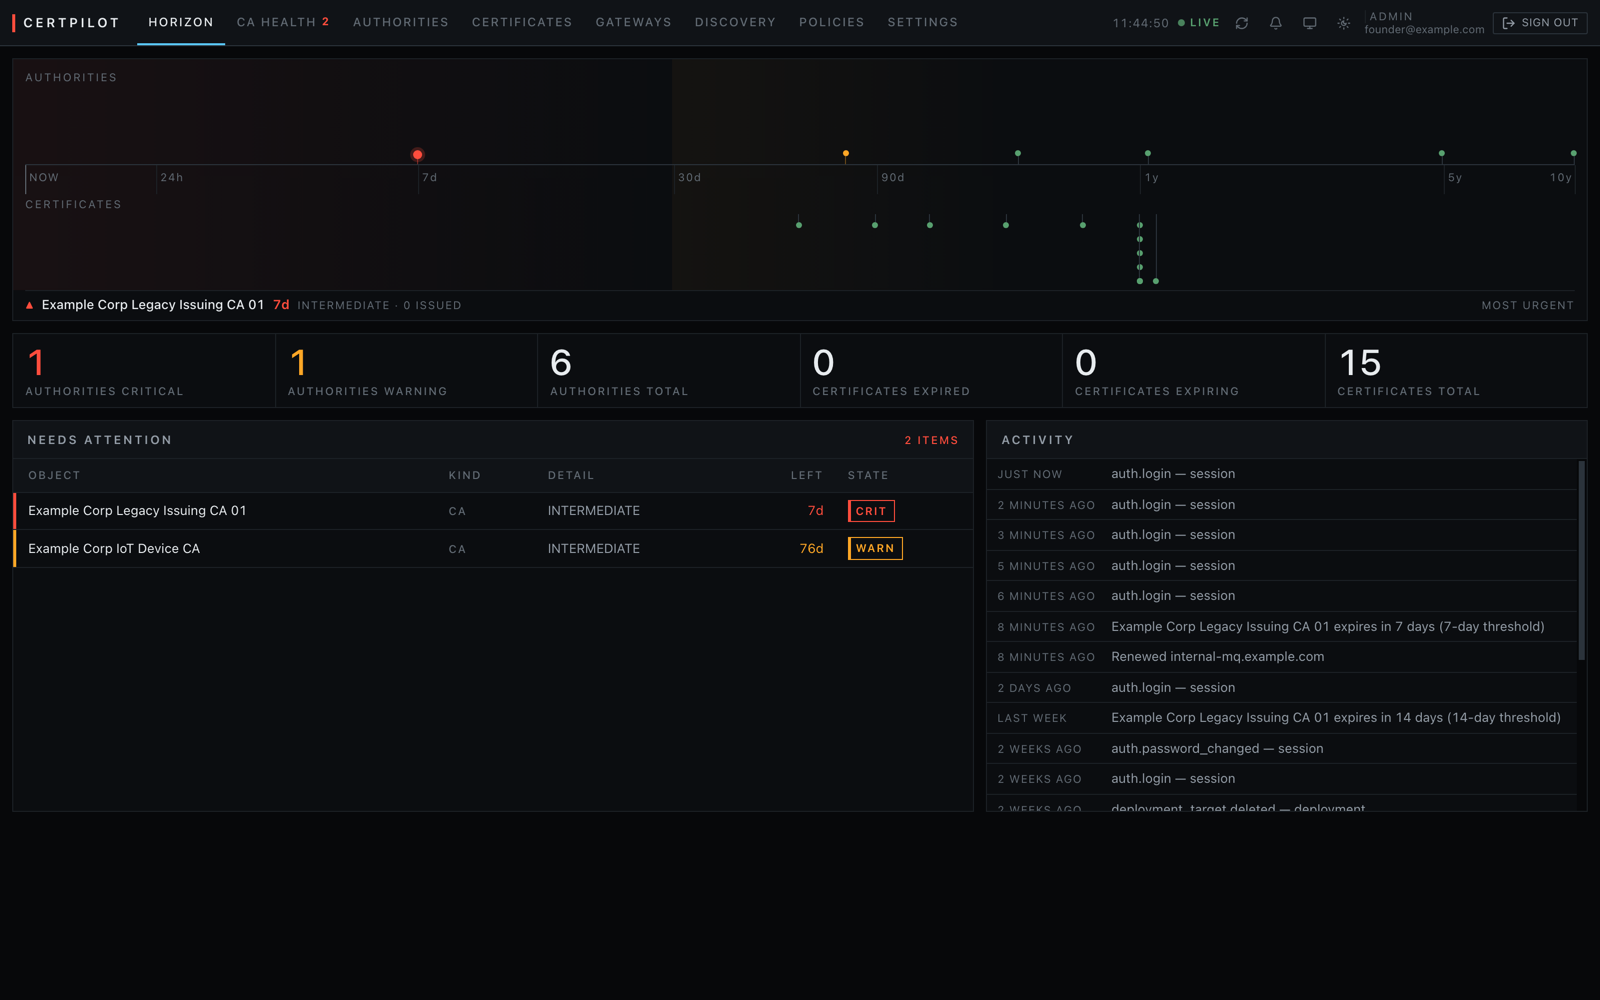
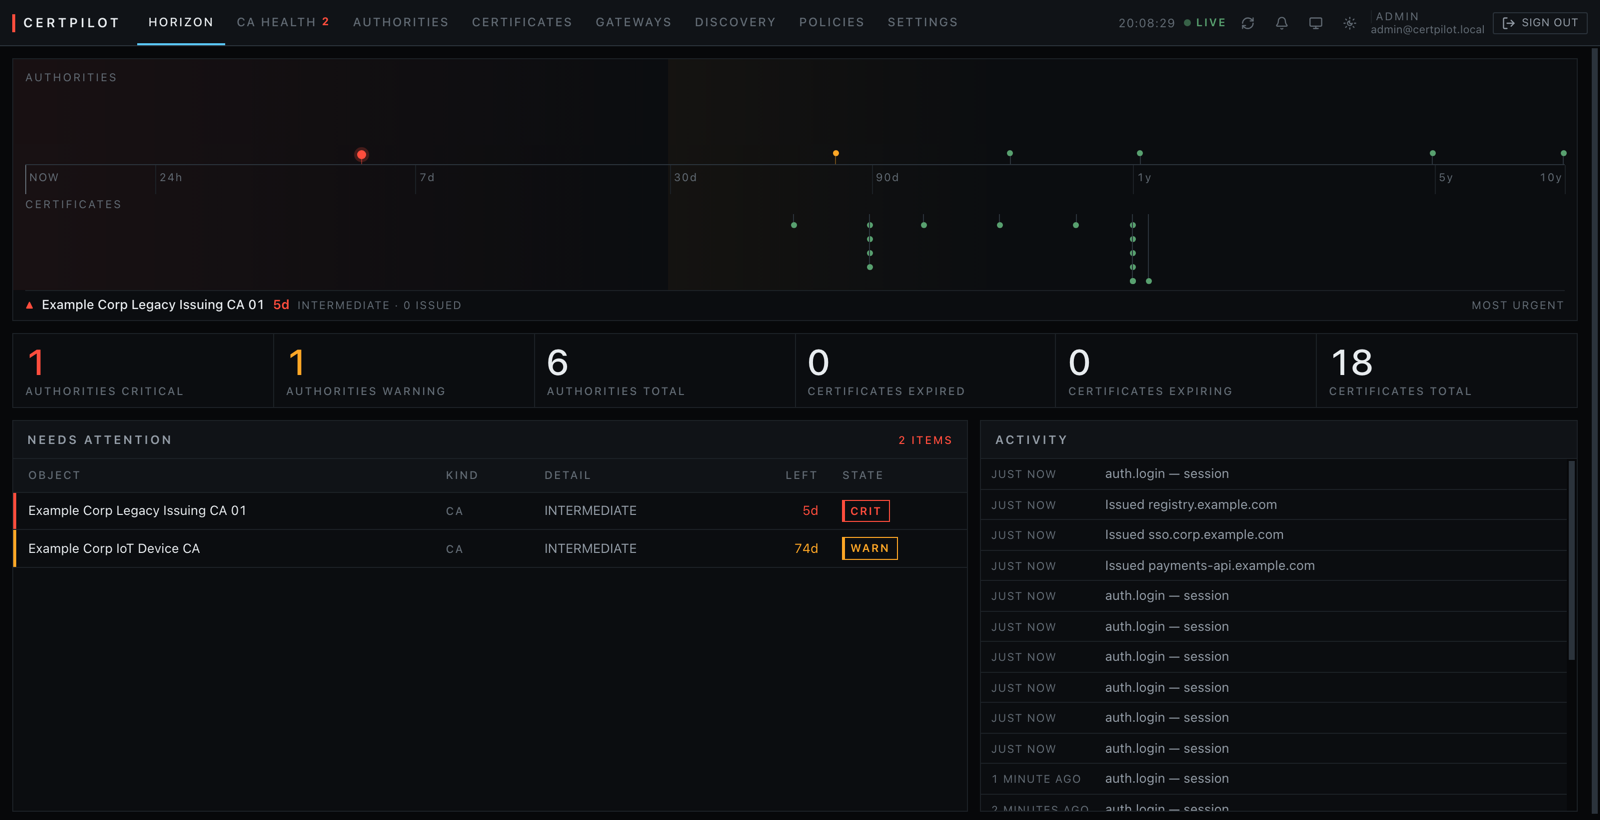
Show the console, in the documents that describe it
Two screenshots existed. One of them, dashboard.png, was referenced by nothing
at all, and the other described a CA seven days from expiry that the current
build renders differently. A documentation set for a product whose whole
argument is "you can see the estate" showed the reader one picture of it.

Five now, each in the document that explains the thing it shows: the dashboard
and the certificate inventory in getting-started, the authorities list in
monitoring beside the prose about where CAs come from, and a completed discovery
scan in discovery. All are the running console, signed in, at 1600px wide.

The captions say what to notice rather than what is visible. The certificate
inventory's filters are the interesting part of that screenshot — they are the
instance's own metadata fields, not built-in columns — and the discovery verdict
is interesting because it names what is wrong in a sentence rather than printing
"untrusted" and leaving the operator to work out why.

How they were taken, since --screenshot cannot do it: Chrome over CDP, logging
in through POST /api/v1/auth/login and planting the httpOnly session cookie with
Network.setCookie, with prefers-color-scheme forced rather than inherited from
the system. The discovery scan is a real one — three local TLS listeners serving
the development certificate, scanned through the console's own form, reported as
unmanaged and untrusted because that is what they are. Nothing was staged and no
[…]

diff --git a/docs/monitoring.md b/docs/monitoring.md
@@ -11,7 +11,7 @@ One principle drives the whole design:
 A frozen screen showing green is worse than no screen, because it manufactures
 false confidence.
 
-![Every certificate authority sorted by urgency, with a critical intermediate seven days from expiry at the top and its acknowledgement state alongside.](images/ca-health.png)
+![Every certificate authority sorted by urgency, with a critical intermediate five days from expiry at the top, a warning at seventy-four, and the acknowledgement control on each.](images/ca-health.png)
 
 *CA health, sorted by urgency. An acknowledged authority keeps its place in the
 order and is marked rather than hidden — filtering it out is how CAs expire in
@@ -67,6 +67,13 @@ Two ways, and the row records which in `source`:
 gateway for the issuers behind it and records them. See
 [gateways/vault.md](gateways/vault.md). This is how the CA that actually signs
 your estate ends up in the same list as the estate.
+
+![The authorities view: six CAs under management with their type, key algorithm, days remaining, issued count and state, above a breakdown of roots and intermediates.](images/authorities.png)
+
+*Every CA is on one clock, roots and intermediates together, most urgent first.
+The issued counts read zero because nothing in this estate was signed through
+CertPilot — which is not the same as the CA being unused, and is exactly the gap
+[discovery](discovery.md) exists to close.*
 
 An imported CA is refreshed on a 12-hour sweep, and the sweep never overwrites
 what an operator decided: the name, the alert thresholds, the owning team, the

diff --git a/docs/getting-started.md b/docs/getting-started.md
@@ -102,6 +102,12 @@ urgency, and `/display` is the fullscreen wall view — locally it works without
 credential, because the core accepts anonymous requests on loopback in
 development mode. On a real deployment it needs a display token; see the README.
 
+![The dashboard: a logarithmic expiry horizon with authorities above and certificates below, six counters, the two authorities needing attention, and a live activity feed.](images/dashboard.png)
+
+*The horizon is logarithmic, so "five days" and "five years" fit on one axis
+without the near end collapsing to a point. The red marker is an intermediate CA
+five days out; everything it ever signed stops verifying when it goes.*
+
 Confirm the gateway registered over mTLS:
 
 ```bash
@@ -137,6 +143,12 @@ curl -s -X POST localhost:8080/api/v1/certificates \
     "auto_renew": true
   }' | jq
 ```
+
+![The certificate inventory: eighteen certificates sorted by urgency, with filters for cost centre, PCI scope, service tier, region and change ticket.](images/certificates.png)
+
+*The filters above the table are not built in. They are the custom metadata
+fields this instance defined, and "PCI in scope" is marked required — which is
+why issuing a certificate without it is refused rather than recorded as unknown.*
 
 The response contains the certificate but **not** the private key. Keys are
 never included in list or detail responses; exporting one is a separate

diff --git a/docs/discovery.md b/docs/discovery.md
@@ -13,6 +13,13 @@ problem you have already solved. Three engines look elsewhere:
 
 Plus a fourth, from the inside: the [agent's file inventory](agent.md#inventory).
 
+![A completed scan of three endpoints, reporting three certificates served that CertPilot does not manage, each with its trust state, TLS version, cipher and findings.](images/discovery.png)
+
+*The verdict is the point: "3 certificates are being served that CertPilot does
+not manage. Nothing renews them." Each finding says what is wrong in a sentence
+— an untrusted issuer, a chain missing its intermediate, a name that does not
+match — because "untrusted" alone tells an operator nothing they can act on.*
+
 ---
 
 ## Network scan
